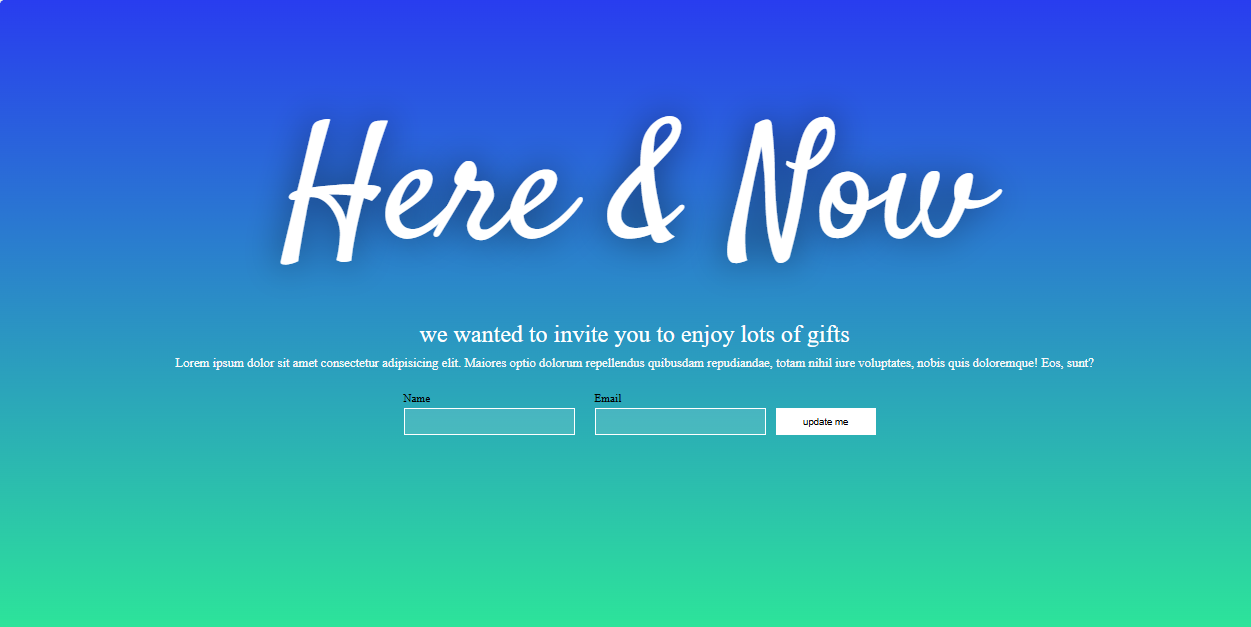
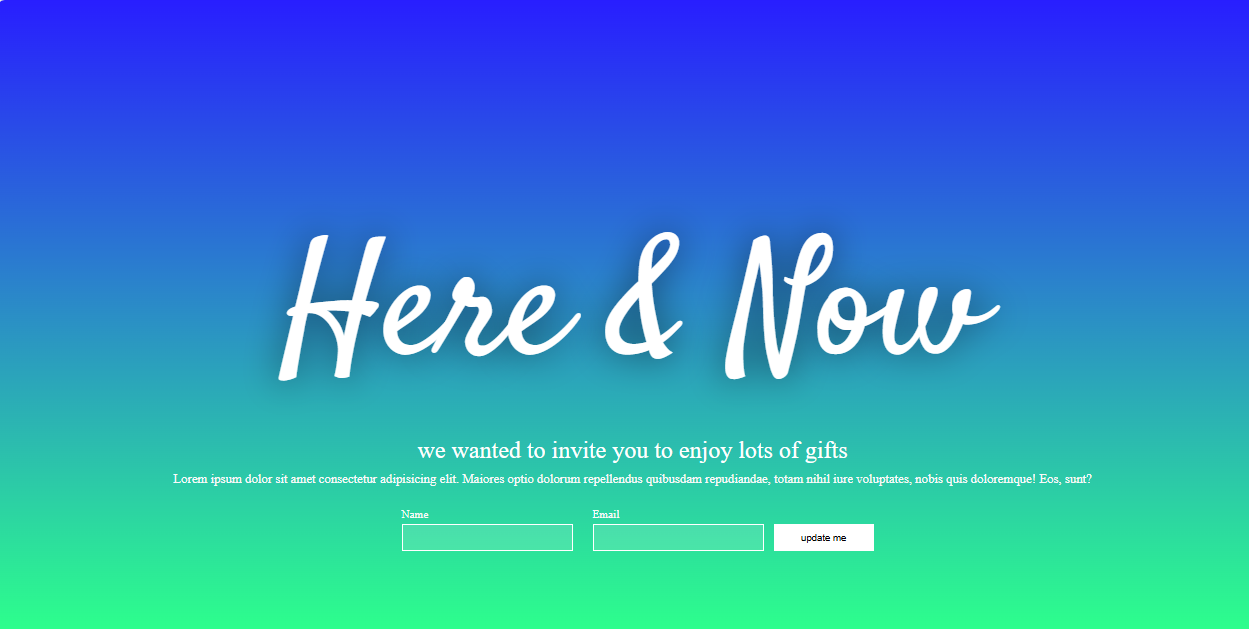
add media to projHere

diff --git a/projects/projHere/style/styleHere.css b/projects/projHere/style/styleHere.css
@@ -50,7 +50,6 @@ body {
 #formWrapper form #details {
     display: flex;
     justify-content: space-evenly;
-    /* margin-right: 15px; */
 }
 
 #formWrapper form #details .box {
@@ -60,8 +59,7 @@ body {
 #formWrapper form #details .box label {
     display: block;
     font: normal normal normal 16px/20px Varela Round;
-    /* color: #F9F9F9; */
-    color: black;
+    color: #F9F9F9;
     font-size: 0.7rem;
 }
 
@@ -73,8 +71,6 @@ body {
 }
 
 .btn input {
-    /* padding: 0px 15px; */
-    /* margin: 10px; */
     font-size: 0.6rem;
     background-color: white;
     border: 0;
@@ -84,8 +80,6 @@ body {
 
 #formWrapper form {
     display: flex;
-    /* margin-left: 15px; */
-    /* margin-right: 10px; */
     align-items: end;
     justify-content: center;
 }
@@ -93,12 +87,24 @@ body {
 @media (max-width:576px) {
     #formWrapper form {
         flex-direction: column;
-        /* align-items: center;
-        justify-content: center; */
+        align-items: center;
+        /*justify-content: center; */
     }
 
+    #formWrapper form #details {
+        flex-direction: column;
+    }
 
     #formWrapper form input {
         margin-bottom: 10px;
+    }
+
+    .btn input {
+        /* width: 170px; */
+        width: 360px;
+    }
+
+    #formWrapper form #details input {
+        width: 360px;
     }
 }
